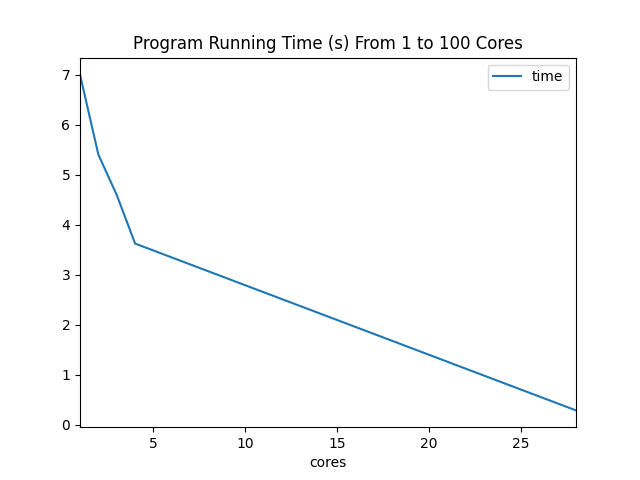
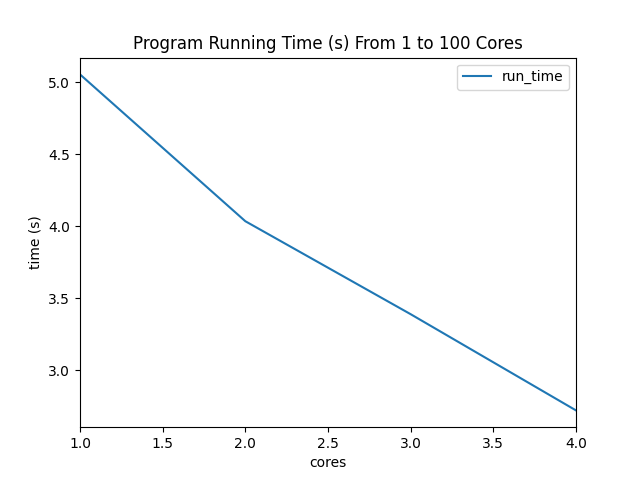
modifications

diff --git a/plot.py b/plot.py
@@ -4,9 +4,10 @@ import sys
 
 
 def plot_csv(csv_filename):
-    df = pd.read_csv(csv_filename, names=['cores', 'time'])
+    df = pd.read_csv(csv_filename, names=['cores', 'run_time'])
 
-    df.plot(x='cores', y='time')
+    df.plot(x='cores', y='run_time')
+    plt.ylabel('time (s)')
     plt.title('Program Running Time (s) From 1 to 100 Cores')
 
     plt.savefig(f'{csv_filename[:-4]}_plot.png')
